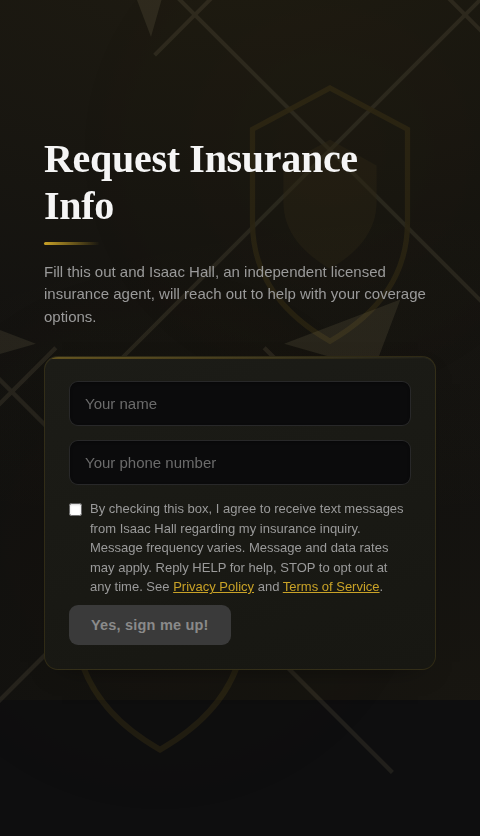
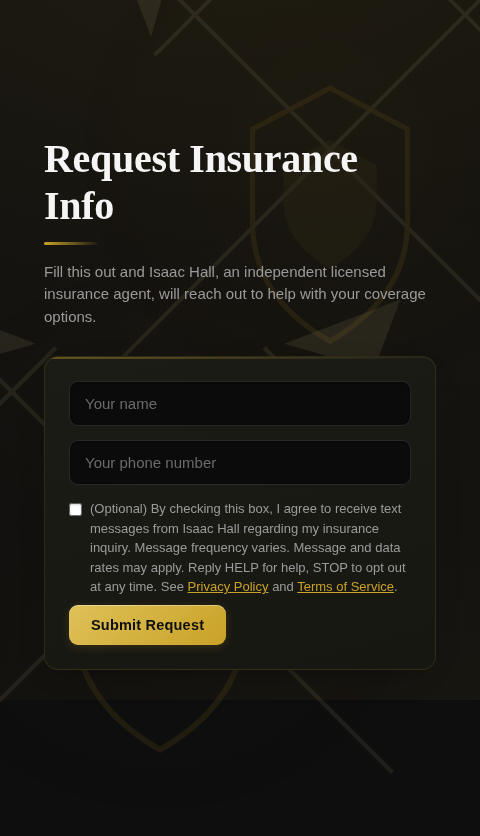
Stop requiring SMS consent checkbox to submit Request Info form (TCR code 30923); track consent and skip texting non-consenting leads

Changed region(s): [[0.125, 0.5909, 0.8438, 0.7775]]

diff --git a/app/components/RequestInfoForm.js b/app/components/RequestInfoForm.js
@@ -51,17 +51,17 @@ export default function RequestInfoForm({ userId, agentName }) {
           style={{ marginTop: 4 }}
         />
         <span style={{ fontSize: 13, color: "#9a9a9a", lineHeight: 1.5 }}>
-          By checking this box, I agree to receive text messages from {agentName} regarding my
-          insurance inquiry. Message frequency varies. Message and data rates may apply. Reply
-          HELP for help, STOP to opt out at any time. See{" "}
+          (Optional) By checking this box, I agree to receive text messages from {agentName}{" "}
+          regarding my insurance inquiry. Message frequency varies. Message and data rates may
+          apply. Reply HELP for help, STOP to opt out at any time. See{" "}
           <a href={`/privacy/${userId}`} target="_blank" rel="noopener noreferrer">Privacy Policy</a>{" "}
           and{" "}
           <a href={`/terms/${userId}`} target="_blank" rel="noopener noreferrer">Terms of Service</a>.
         </span>
       </div>
 
-      <button type="submit" disabled={loading || !consent}>
-        {loading ? "Submitting..." : "Yes, sign me up!"}
+      <button type="submit" disabled={loading}>
+        {loading ? "Submitting..." : "Submit Request"}
       </button>
     </form>
   );

diff --git a/app/compose/page.js b/app/compose/page.js
@@ -227,7 +227,12 @@ export default function ComposePage() {
                     {g.contacts.map((c) => (
                       <div className="checkbox-row" key={c.id}>
                         <input type="checkbox" checked={selected.has(c.id)} onChange={() => toggle(c.id)} />
-                        <span>{c.name} — {c.phone}</span>
+                        <span>
+                          {c.name} — {c.phone}
+                          {c.sms_consent === false && (
+                            <span style={{ color: "var(--danger)", fontSize: 12 }}> (no SMS consent - call instead)</span>
+                          )}
+                        </span>
                       </div>
                     ))}
                   </div>

diff --git a/app/api/request-info/route.js b/app/api/request-info/route.js
@@ -8,9 +8,6 @@ export async function POST(req) {
   if (!userId || !name || !phone) {
     return NextResponse.json({ error: "Name and phone are required" }, { status: 400 });
   }
-  if (!consent) {
-    return NextResponse.json({ error: "Please check the box to agree to be contacted." }, { status: 400 });
-  }
 
   const { data: profile } = await supabaseAdmin
     .from("profiles")
@@ -27,6 +24,7 @@ export async function POST(req) {
       name: name.trim(),
       phone: normalizePhone(phone),
       type: "lead",
+      sms_consent: !!consent,
     },
     { onConflict: "owner_id,phone" }
   );

diff --git a/app/api/send/route.js b/app/api/send/route.js
@@ -43,6 +43,10 @@ export async function POST(req) {
 
   const results = [];
   for (const contact of contacts) {
+    if (contact.sms_consent === false) {
+      results.push({ contact: contact.name, ok: false, error: "Didn't consent to texts - call them instead" });
+      continue;
+    }
     try {
       const fromNumber = contact.twilio_number || profile.twilio_number;
       const body = fillMessageTemplate(message, contact);
